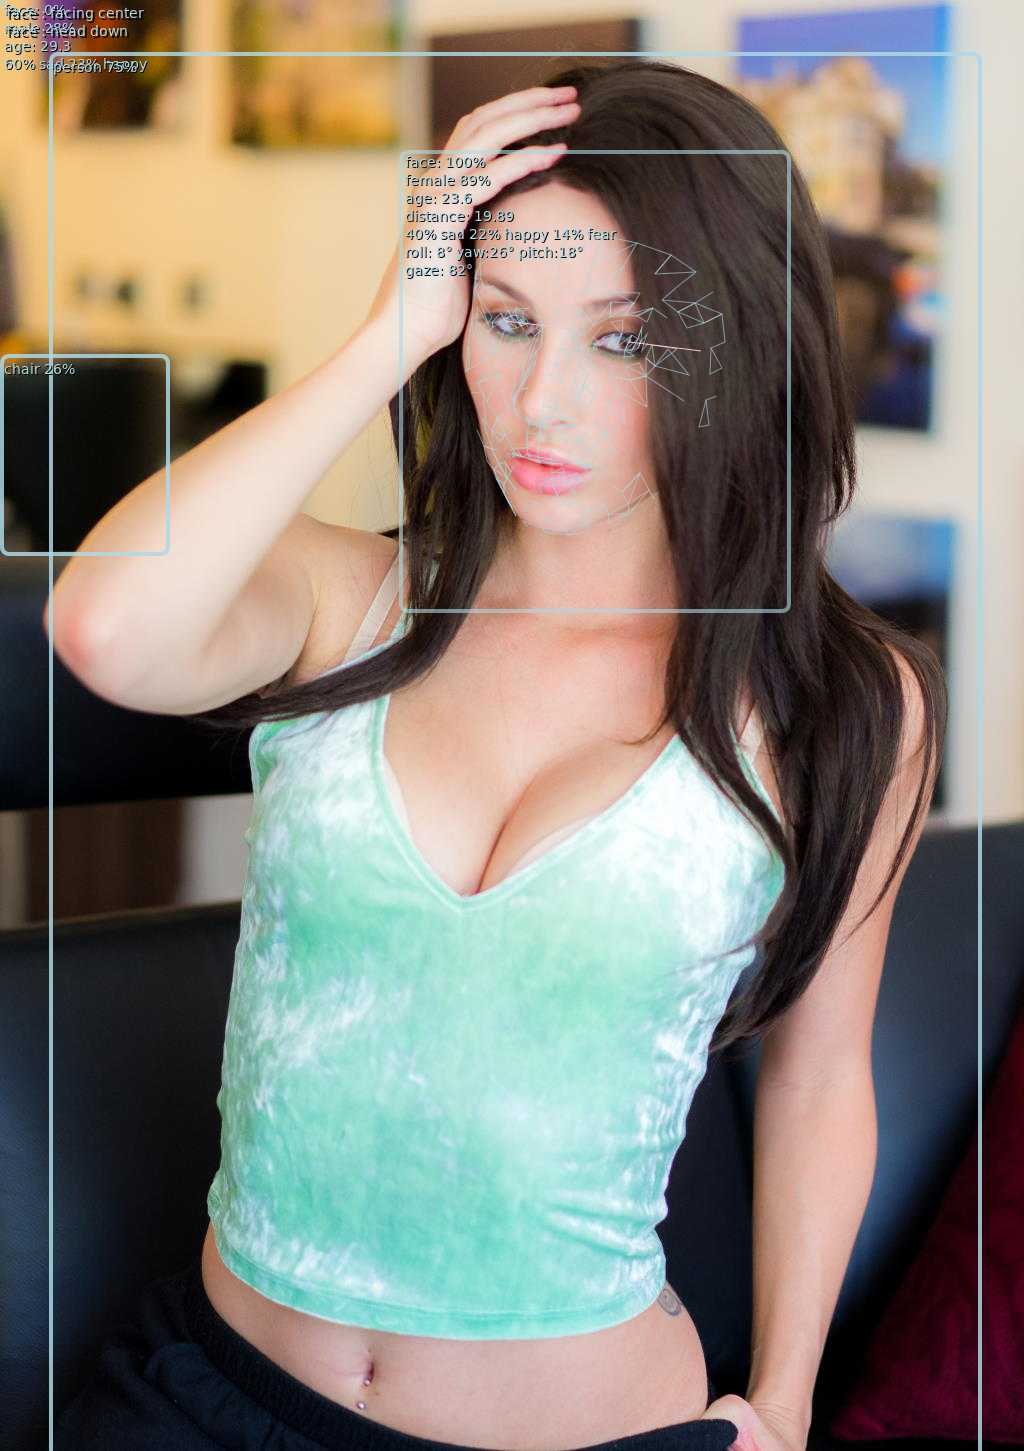
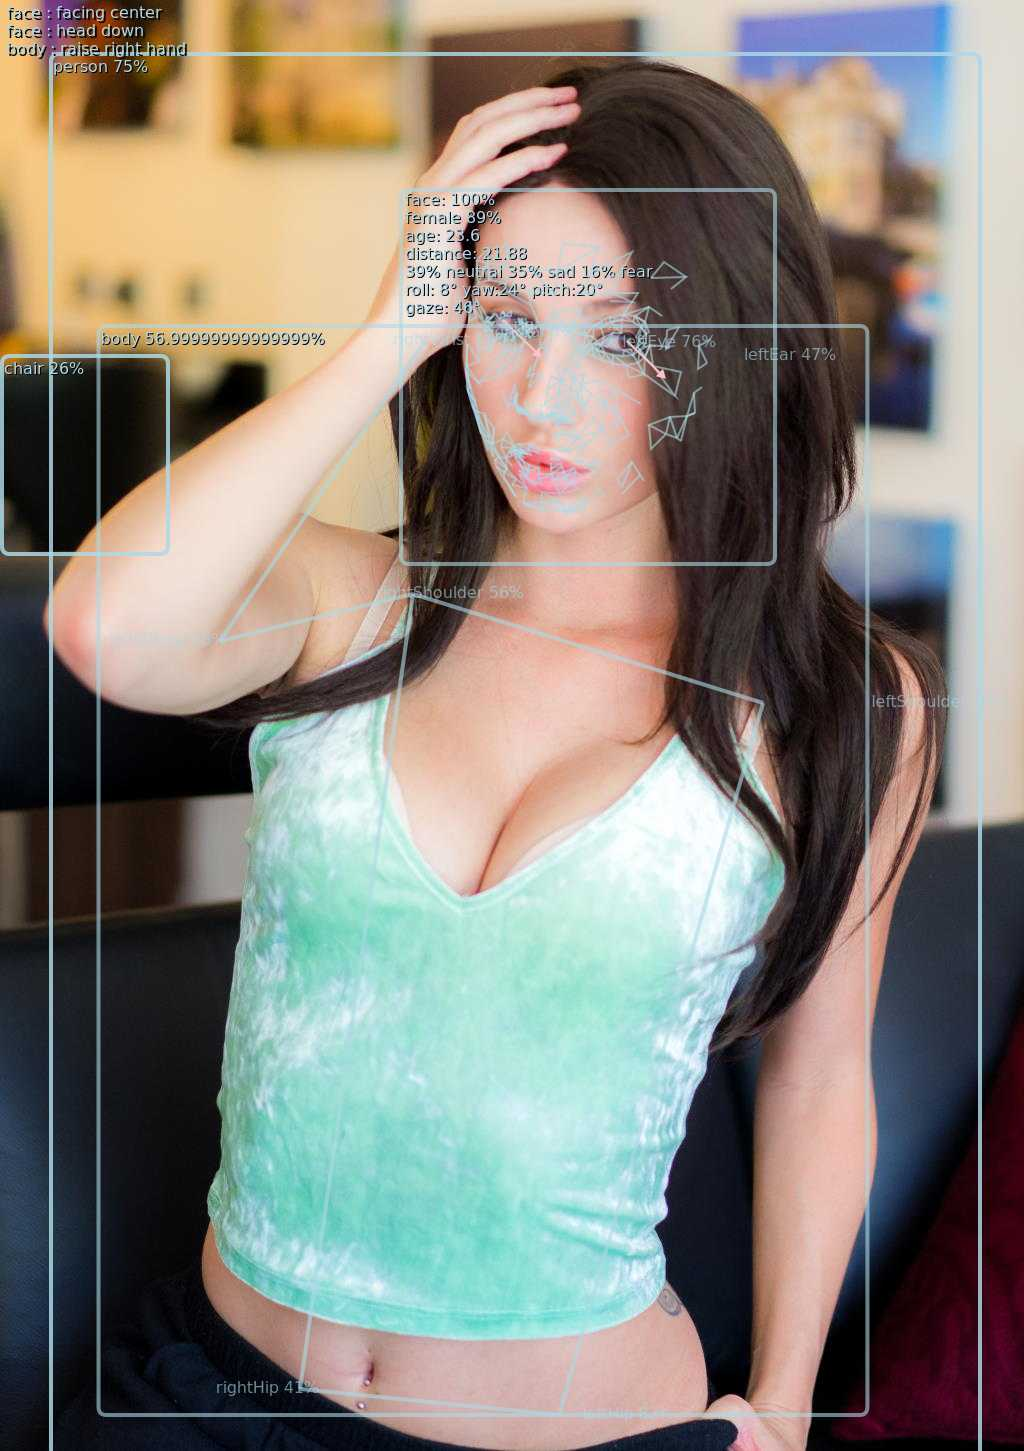
update samples with images under cc licence only

diff --git a/samples/index.html b/samples/index.html
@@ -45,11 +45,13 @@
         'person-carolina.jpg', 'person-celeste.jpg', 'person-leila1.jpg', 'person-leila2.jpg', 'person-lexi.jpg', 'person-linda.jpg', 'person-nicole.jpg', 'person-tasia.jpg',
         'person-tetiana.jpg', 'person-vlado1.jpg', 'person-vlado5.jpg', 'person-vlado.jpg', 'person-christina.jpg', 'person-lauren.jpg',
         'group-1.jpg', 'group-2.jpg', 'group-3.jpg', 'group-4.jpg', 'group-5.jpg', 'group-6.jpg', 'group-7.jpg',
-        'daz3d-brianna.jpg', 'daz3d-chiyo.jpg', 'daz3d-cody.jpg', 'daz3d-drew-01.jpg', 'daz3d-drew-02.jpg', 'daz3d-ella-01.jpg', 'daz3d-ella-02.jpg', 'daz3d-gillian.jpg',
-        'daz3d-hye-01.jpg', 'daz3d-hye-02.jpg', 'daz3d-kaia.jpg', 'daz3d-karen.jpg', 'daz3d-kiaria-01.jpg', 'daz3d-kiaria-02.jpg', 'daz3d-lilah-01.jpg', 'daz3d-lilah-02.jpg',
-        'daz3d-lilah-03.jpg', 'daz3d-lila.jpg', 'daz3d-lindsey.jpg', 'daz3d-megah.jpg', 'daz3d-selina-01.jpg', 'daz3d-selina-02.jpg', 'daz3d-snow.jpg',
-        'daz3d-sunshine.jpg', 'daz3d-taia.jpg', 'daz3d-tuesday-01.jpg', 'daz3d-tuesday-02.jpg', 'daz3d-tuesday-03.jpg', 'daz3d-zoe.jpg', 'daz3d-ginnifer.jpg',
-        'daz3d-_emotions01.jpg', 'daz3d-_emotions02.jpg', 'daz3d-_emotions03.jpg', 'daz3d-_emotions04.jpg', 'daz3d-_emotions05.jpg',
+        'cgi-model-1.jpg', 'cgi-model-10.jpg', 'cgi-model-11.jpg', 'cgi-model-12.jpg', 'cgi-model-13.jpg', 'cgi-model-14.jpg', 'cgi-model-15.jpg', 'cgi-model-16.jpg',
+        'cgi-model-17.jpg', 'cgi-model-18.jpg', 'cgi-model-19.jpg', 'cgi-model-2.jpg', 'cgi-model-20.jpg', 'cgi-model-21.jpg', 'cgi-model-22.jpg', 'cgi-model-23.jpg',
+        'cgi-model-24.jpg', 'cgi-model-25.jpg', 'cgi-model-26.jpg', 'cgi-model-27.jpg', 'cgi-model-28.jpg', 'cgi-model-29.jpg', 'cgi-model-3.jpg', 'cgi-model-30.jpg',
+        'cgi-model-31.jpg', 'cgi-model-32.jpg', 'cgi-model-33.jpg', 'cgi-model-34.jpg', 'cgi-model-35.jpg', 'cgi-model-36.jpg', 'cgi-model-4.jpg', 'cgi-model-5.jpg',
+        'cgi-model-6.jpg', 'cgi-model-7.jpg', 'cgi-model-8.jpg', 'cgi-model-9.jpg', 'cgi-multiangle-1.jpg', 'cgi-multiangle-10.jpg', 'cgi-multiangle-11.jpg',
+        'cgi-multiangle-2.jpg', 'cgi-multiangle-3.jpg', 'cgi-multiangle-4.jpg', 'cgi-multiangle-5.jpg', 'cgi-multiangle-6.jpg', 'cgi-multiangle-7.jpg', 'cgi-multiangle-8.jpg', 'cgi-multiangle-9.jpg',
+        'cgi-group-1.jpg', 'cgi-group-2.jpg', 'cgi-group-3.jpg',
       ];
       const image = document.getElementById('image');
       image.addEventListener('click', () => {

diff --git a/demo/nodejs/process-folder.js b/demo/nodejs/process-folder.js
@@ -3,8 +3,8 @@ const path = require('path');
 const process = require('process');
 const log = require('@vladmandic/pilogger');
 const canvas = require('canvas');
-const tf = require('@tensorflow/tfjs-node'); // for nodejs, `tfjs-node` or `tfjs-node-gpu` should be loaded before using Human
-const Human = require('../../dist/human.node.js'); // this is 'const Human = require('../dist/human.node-gpu.js').default;'
+// const tf = require('@tensorflow/tfjs-node-gpu'); // for nodejs, `tfjs-node` or `tfjs-node-gpu` should be loaded before using Human
+const Human = require('../../dist/human.node-gpu.js'); // this is 'const Human = require('../dist/human.node-gpu.js').default;'
 
 const config = { // just enable all and leave default settings
   debug: true,
@@ -56,19 +56,21 @@ async function main() {
     log.state('Loaded image:', inFile, tensor.shape);
 
     const result = await human.detect(tensor);
-    tf.dispose(tensor);
+    human.tf.dispose(tensor);
     log.data(`Detected: ${image}:`, 'Face:', result.face.length, 'Body:', result.body.length, 'Hand:', result.hand.length, 'Objects:', result.object.length, 'Gestures:', result.gesture.length);
 
     const outputCanvas = new canvas.Canvas(tensor.shape[2], tensor.shape[1]); // create canvas
     const outputCtx = outputCanvas.getContext('2d');
     const inputImage = await canvas.loadImage(buffer); // load image using canvas library
     outputCtx.drawImage(inputImage, 0, 0); // draw input image onto canvas
+    // @ts-ignore
     human.draw.all(outputCanvas, result); // use human build-in method to draw results as overlays on canvas
     const outFile = path.join(outDir, image);
     const outStream = fs.createWriteStream(outFile); // write canvas to new image file
     outStream.on('finish', () => log.state('Output image:', outFile, outputCanvas.width, outputCanvas.height));
     outStream.on('error', (err) => log.error('Output error:', outFile, err));
     const stream = outputCanvas.createJPEGStream({ quality: 0.5, progressive: true, chromaSubsampling: true });
+    // @ts-ignore
     stream.pipe(outStream);
   }
 }

diff --git a/src/body/movenet.ts b/src/body/movenet.ts
@@ -39,6 +39,7 @@ export async function load(config: Config): Promise<GraphModel> {
     else if (config.debug) log('load model:', model['modelUrl']);
   } else if (config.debug) log('cached model:', model['modelUrl']);
   inputSize = model.inputs[0].shape ? model.inputs[0].shape[2] : 0;
+  if (inputSize < 64) inputSize = 256;
   return model;
 }
 

diff --git a/CHANGELOG.md b/CHANGELOG.md
@@ -9,10 +9,10 @@
   
 ## Changelog
   
+### **HEAD -> main** 2022/01/14 mandic00@live.com
+
+
 ### **2.5.8** 2022/01/14 mandic00@live.com
-
-
-### **origin/main** 2022/01/08 mandic00@live.com
 
 - fix samples
 - fix(src): typo
